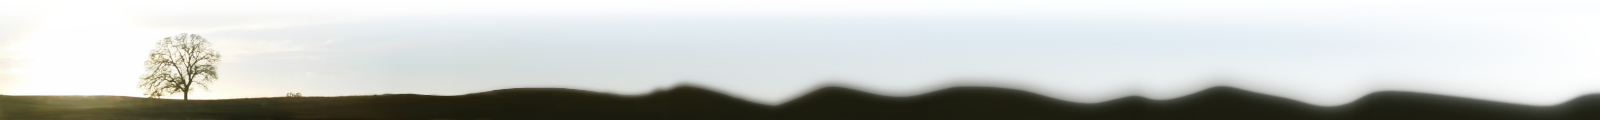
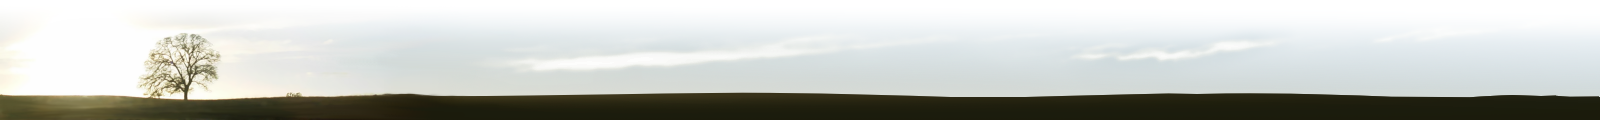
nicer bottom...
git-svn-id: svn+ssh://svn.enlightenment.org/var/svn/e/trunk@10735 7cbeb6ba-43b4-40fd-8cce-4c39aea84d33

Changed region(s): [[0.25, 0.375, 1.0, 0.975], [0.3125, 0.425, 0.5, 0.6]]

diff --git a/web/e/pages/systems.html b/web/e/pages/systems.html
@@ -128,6 +128,7 @@ onLoad="adjust();"
 
 <div class="content">
 
+<p class="contenttitle">THIS PAGE IS BEING WRITTEN - NOT FINISHED!</p>
 <p class="contenttitle">Enlightenment's Core Systems</p>
 <br>
 
@@ -146,7 +147,7 @@ We refer to these systems as the <a href=efl.html>EFL or Enlightenment
 Foundation Libraries</a>, as they are the foundation of the project and the
 currently contain all the hard work. The intent is to have libraries that are
 extremely easy to use and learn, that optimize automatically for the programmer
-where possible and svage the programmer time and effort in the long run. We
+where possible and save the programmer time and effort in the long run. We
 believe we have achieved many of these goals and have some very unique
 aspects that may be of great interest to developers outside of the project to
 create some interesting or even amazing tools.
@@ -178,7 +179,7 @@ Evas is a very core part of the <a href=efl.html>EFL</a>. It is the rendering
 and display management engine that sits under anything you see on a screen.
 It does all the work of managing display objects, their state, state changes,
 layering, rendering and scaling, image loading, text rendering, update
-handling, optimizing the display pipeline to avoid work and more. It does a
+handling, optimising the display pipeline to avoid work and more. It does a
 lot of the grunt work of display, and is portable beyond
 <a href=http://www.x.org>X</a>. It even runs in the framebuffer directly
 without needing <a href=http://www.x.org>X</a>, under
@@ -196,20 +197,40 @@ important work of making their application.
 But despite all of the things that Evas can do, it is not very large. It has
 been kept small and lean to make it viable for use on NOT just heavy-weight
 desktops, but also on limited resource devices such as PDA's, mobile phones
-and Smartphones, Stereo systems, DVD Players, PVR/DVR Systems and more. It
-has already been proted to Mobile phones and PDA's, PVR/DVR systems and has
-proven itself capable of driving these displays very nicely with beautiful
+and Smart phones, Stereo systems, DVD Players, PVR/DVR Systems and more. It
+has already been ported to Mobile phones and PDA's, PVR/DVR systems and has
+proved itself capable of driving these displays very nicely with beautiful
 effects. The developer does not have to change how they code for a device or
 their desktop as the API and rendering are the same, so no special
 development environments or emulators are needed. This saves time and effort,
 allowing desktop and device code to be shared and maintained easily. Also
 since Evas hides the details of the devices display format, and virtualises
-the display at an object level, the programmer doesnt need to care how to
+the display at an object level, the programmer doesn't need to care how to
 render things. They can use a standard system that is universal across all
 instances of Evas.
 </p><p>
+Evas provides alpha blending, high quality scaling of images, anti-aliased
+truetype text, gradients, lines, polygons and more. The list of supported
+objects is growing, and can be extended via smart objects. It has an interface
+mechanism to allow for video data to be efficiently handled (which is what
+Emotion exploits) and more.
+</p><p>
 <img src=img/sys_ecore.png width=318 height=100>
 </p><p>
+Ecore is a modular group of very closely linked libraries that provide core
+event loop functionality and related tasks. As the core event loop it
+provides conversion of system signals into events, to avoid having to have
+re-entrant code, handle basic file descriptor watching and passing off
+control to appropriate callback routines where needed, handling timers, idle
+calls, and other general program infrastructure and loop code.
+</p><p>
+It also provides easy to use wrappers around common systems such as X, Evas
+(for setup and combining with X), the framebuffer, configuration management,
+inter process communication, socket handling, client/server programming, text
+encoding conversions (e.g. EUCJP to UTF8), deferred job handling and more. This
+library is a big time saver and core infrastructure library that can be used
+to do all the basic things applications need to do, with minimal code and
+effort.
 </p><p>
 <img src=img/sys_edje.png width=318 height=100>
 </p><p>

diff --git a/web/e/data/systems.html b/web/e/data/systems.html
@@ -1,5 +1,6 @@
 @top@
 @start@
+<p class="contenttitle">THIS PAGE IS BEING WRITTEN - NOT FINISHED!</p>
 <p class="contenttitle">Enlightenment's Core Systems</p>
 <br>
 
@@ -18,7 +19,7 @@ We refer to these systems as the <a href=efl.html>EFL or Enlightenment
 Foundation Libraries</a>, as they are the foundation of the project and the
 currently contain all the hard work. The intent is to have libraries that are
 extremely easy to use and learn, that optimize automatically for the programmer
-where possible and svage the programmer time and effort in the long run. We
+where possible and save the programmer time and effort in the long run. We
 believe we have achieved many of these goals and have some very unique
 aspects that may be of great interest to developers outside of the project to
 create some interesting or even amazing tools.
@@ -50,7 +51,7 @@ Evas is a very core part of the <a href=efl.html>EFL</a>. It is the rendering
 and display management engine that sits under anything you see on a screen.
 It does all the work of managing display objects, their state, state changes,
 layering, rendering and scaling, image loading, text rendering, update
-handling, optimizing the display pipeline to avoid work and more. It does a
+handling, optimising the display pipeline to avoid work and more. It does a
 lot of the grunt work of display, and is portable beyond
 <a href=http://www.x.org>X</a>. It even runs in the framebuffer directly
 without needing <a href=http://www.x.org>X</a>, under
@@ -68,20 +69,40 @@ important work of making their application.
 But despite all of the things that Evas can do, it is not very large. It has
 been kept small and lean to make it viable for use on NOT just heavy-weight
 desktops, but also on limited resource devices such as PDA's, mobile phones
-and Smartphones, Stereo systems, DVD Players, PVR/DVR Systems and more. It
-has already been proted to Mobile phones and PDA's, PVR/DVR systems and has
-proven itself capable of driving these displays very nicely with beautiful
+and Smart phones, Stereo systems, DVD Players, PVR/DVR Systems and more. It
+has already been ported to Mobile phones and PDA's, PVR/DVR systems and has
+proved itself capable of driving these displays very nicely with beautiful
 effects. The developer does not have to change how they code for a device or
 their desktop as the API and rendering are the same, so no special
 development environments or emulators are needed. This saves time and effort,
 allowing desktop and device code to be shared and maintained easily. Also
 since Evas hides the details of the devices display format, and virtualises
-the display at an object level, the programmer doesnt need to care how to
+the display at an object level, the programmer doesn't need to care how to
 render things. They can use a standard system that is universal across all
 instances of Evas.
 </p><p>
+Evas provides alpha blending, high quality scaling of images, anti-aliased
+truetype text, gradients, lines, polygons and more. The list of supported
+objects is growing, and can be extended via smart objects. It has an interface
+mechanism to allow for video data to be efficiently handled (which is what
+Emotion exploits) and more.
+</p><p>
 <img src=img/sys_ecore.png width=318 height=100>
 </p><p>
+Ecore is a modular group of very closely linked libraries that provide core
+event loop functionality and related tasks. As the core event loop it
+provides conversion of system signals into events, to avoid having to have
+re-entrant code, handle basic file descriptor watching and passing off
+control to appropriate callback routines where needed, handling timers, idle
+calls, and other general program infrastructure and loop code.
+</p><p>
+It also provides easy to use wrappers around common systems such as X, Evas
+(for setup and combining with X), the framebuffer, configuration management,
+inter process communication, socket handling, client/server programming, text
+encoding conversions (e.g. EUCJP to UTF8), deferred job handling and more. This
+library is a big time saver and core infrastructure library that can be used
+to do all the basic things applications need to do, with minimal code and
+effort.
 </p><p>
 <img src=img/sys_edje.png width=318 height=100>
 </p><p>
